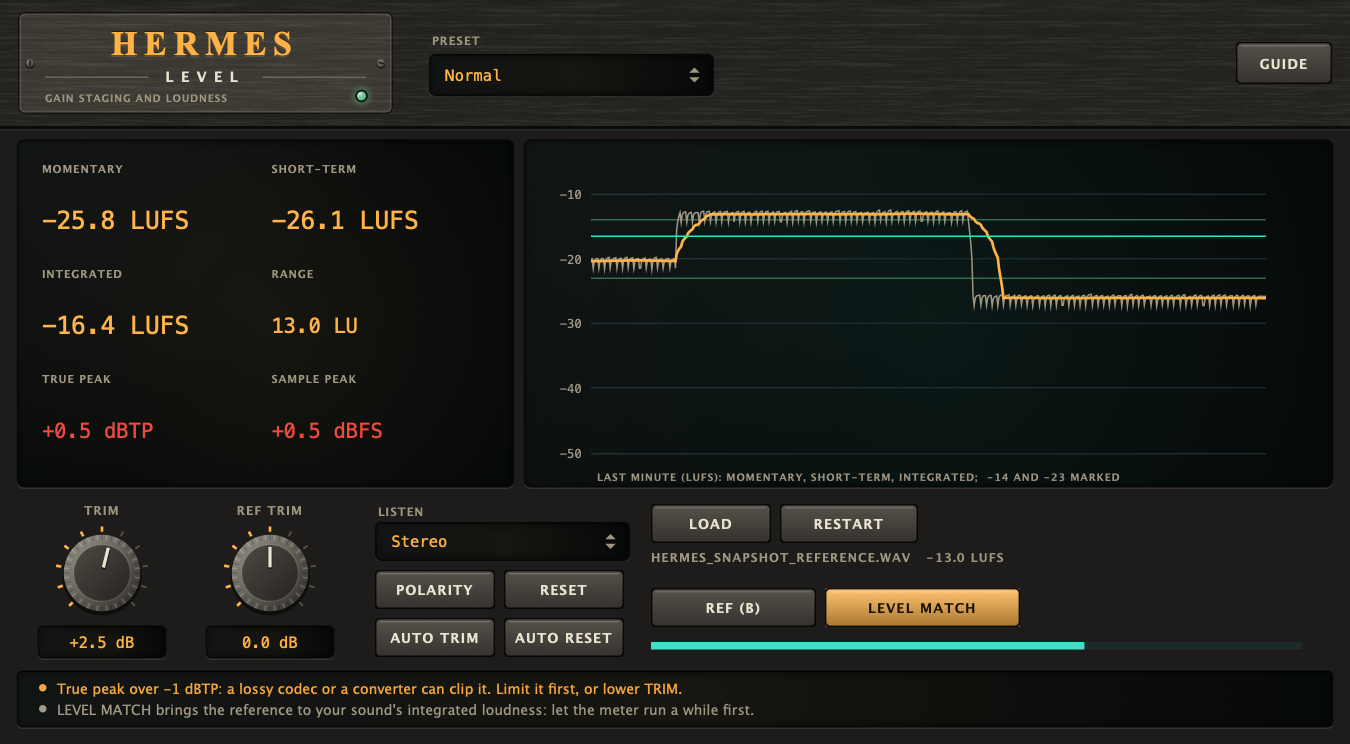
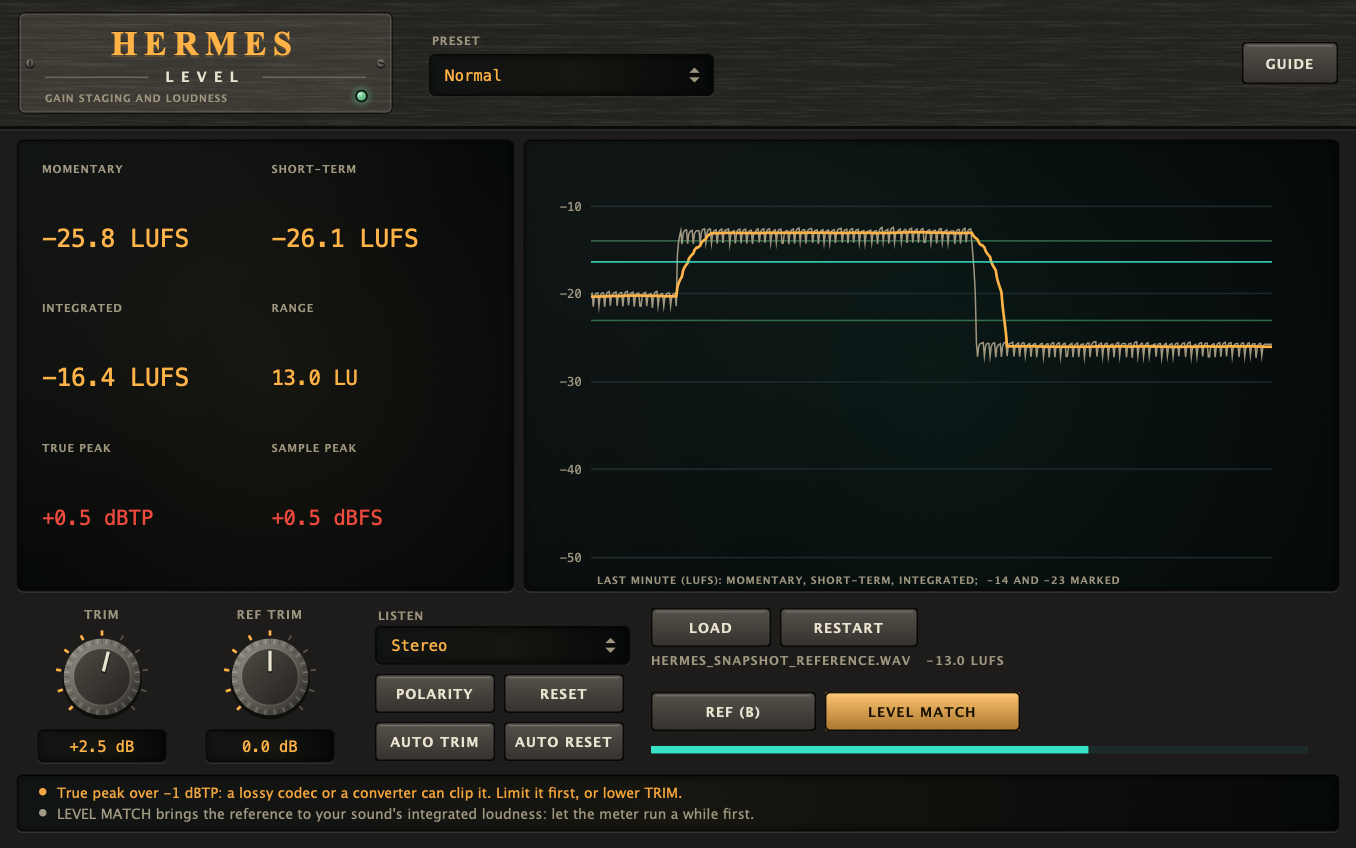
Hermes: 16:10 window, the display takes the rest of the height
The editor is 904 px wide and 565 px high, from ui::editorHeightFor
(was 900 px wide). The display is what the header, cell row and note
strip leave, instead of a fixed 230 px. UiCheck pins the shape; the
screenshot is regenerated.

diff --git a/plugins/hermes/Source/PluginEditor.cpp b/plugins/hermes/Source/PluginEditor.cpp
@@ -3,17 +3,19 @@
 
 #include "PluginEditor.h"
 
+#include <pantheon/ui/Aspect.h>
+
 using namespace hermes;
 namespace hw = ui::hw;
 
 namespace
 {
 constexpr int headerHeight = 84;
-constexpr int displayHeight = 230;
 constexpr int cellWidth = 112;
 constexpr int cellHeight = 108;
 constexpr int kTimerHz = 10;
-constexpr int kWidth = 900;
+constexpr int kWidth = 904, kHeight = ui::editorHeightFor (kWidth); // 16:10, the kit's shape
+constexpr int displayHeight = kHeight - (headerHeight + 10 + 8 + cellHeight + 8 + ui::kNoteStripHeight + 12); // the display takes what the rest leaves
 
 juce::String readout (float v, const char* unit)
 {
@@ -61,7 +63,7 @@ HermesEditor::HermesEditor (HermesProcessor& p)
     for (auto* c : std::initializer_list<juce::Component*> { &trim, &referenceTrim, &listen, &polarity, &reference, &levelMatch, &loadButton, &restartButton, &resetButton, &autoTrimButton, &autoReset, &presetBox, &guideButton })
         addAndMakeVisible (*c);
     startTimerHz (kTimerHz);
-    setSize (kWidth, headerHeight + 10 + displayHeight + 8 + cellHeight + 8 + ui::kNoteStripHeight + 12);
+    setSize (kWidth, kHeight);
 }
 
 HermesEditor::~HermesEditor() { setLookAndFeel (nullptr); }

diff --git a/plugins/hermes/Tests/UiCheck.cpp b/plugins/hermes/Tests/UiCheck.cpp
@@ -52,6 +52,7 @@ int main()
     {
         std::unique_ptr<juce::AudioProcessorEditor> holder (proc.createEditor());
         auto& editor = ui::innerOf<HermesEditor> (*holder);
+        check (ui::hasEditorAspect (editor.getWidth(), editor.getHeight()), "the editor is drawn at 16:10, the shape of every plugin");
         editor.setVisible (true);
         check (editor.getWidth() > 800 && editor.levelMatch.getRight() <= editor.getWidth() && editor.levelMatch.getBottom() < editor.getHeight(), "the controls fit the window");
         editor.loadFile (juce::File ("/nonexistent/nothing.wav"));
